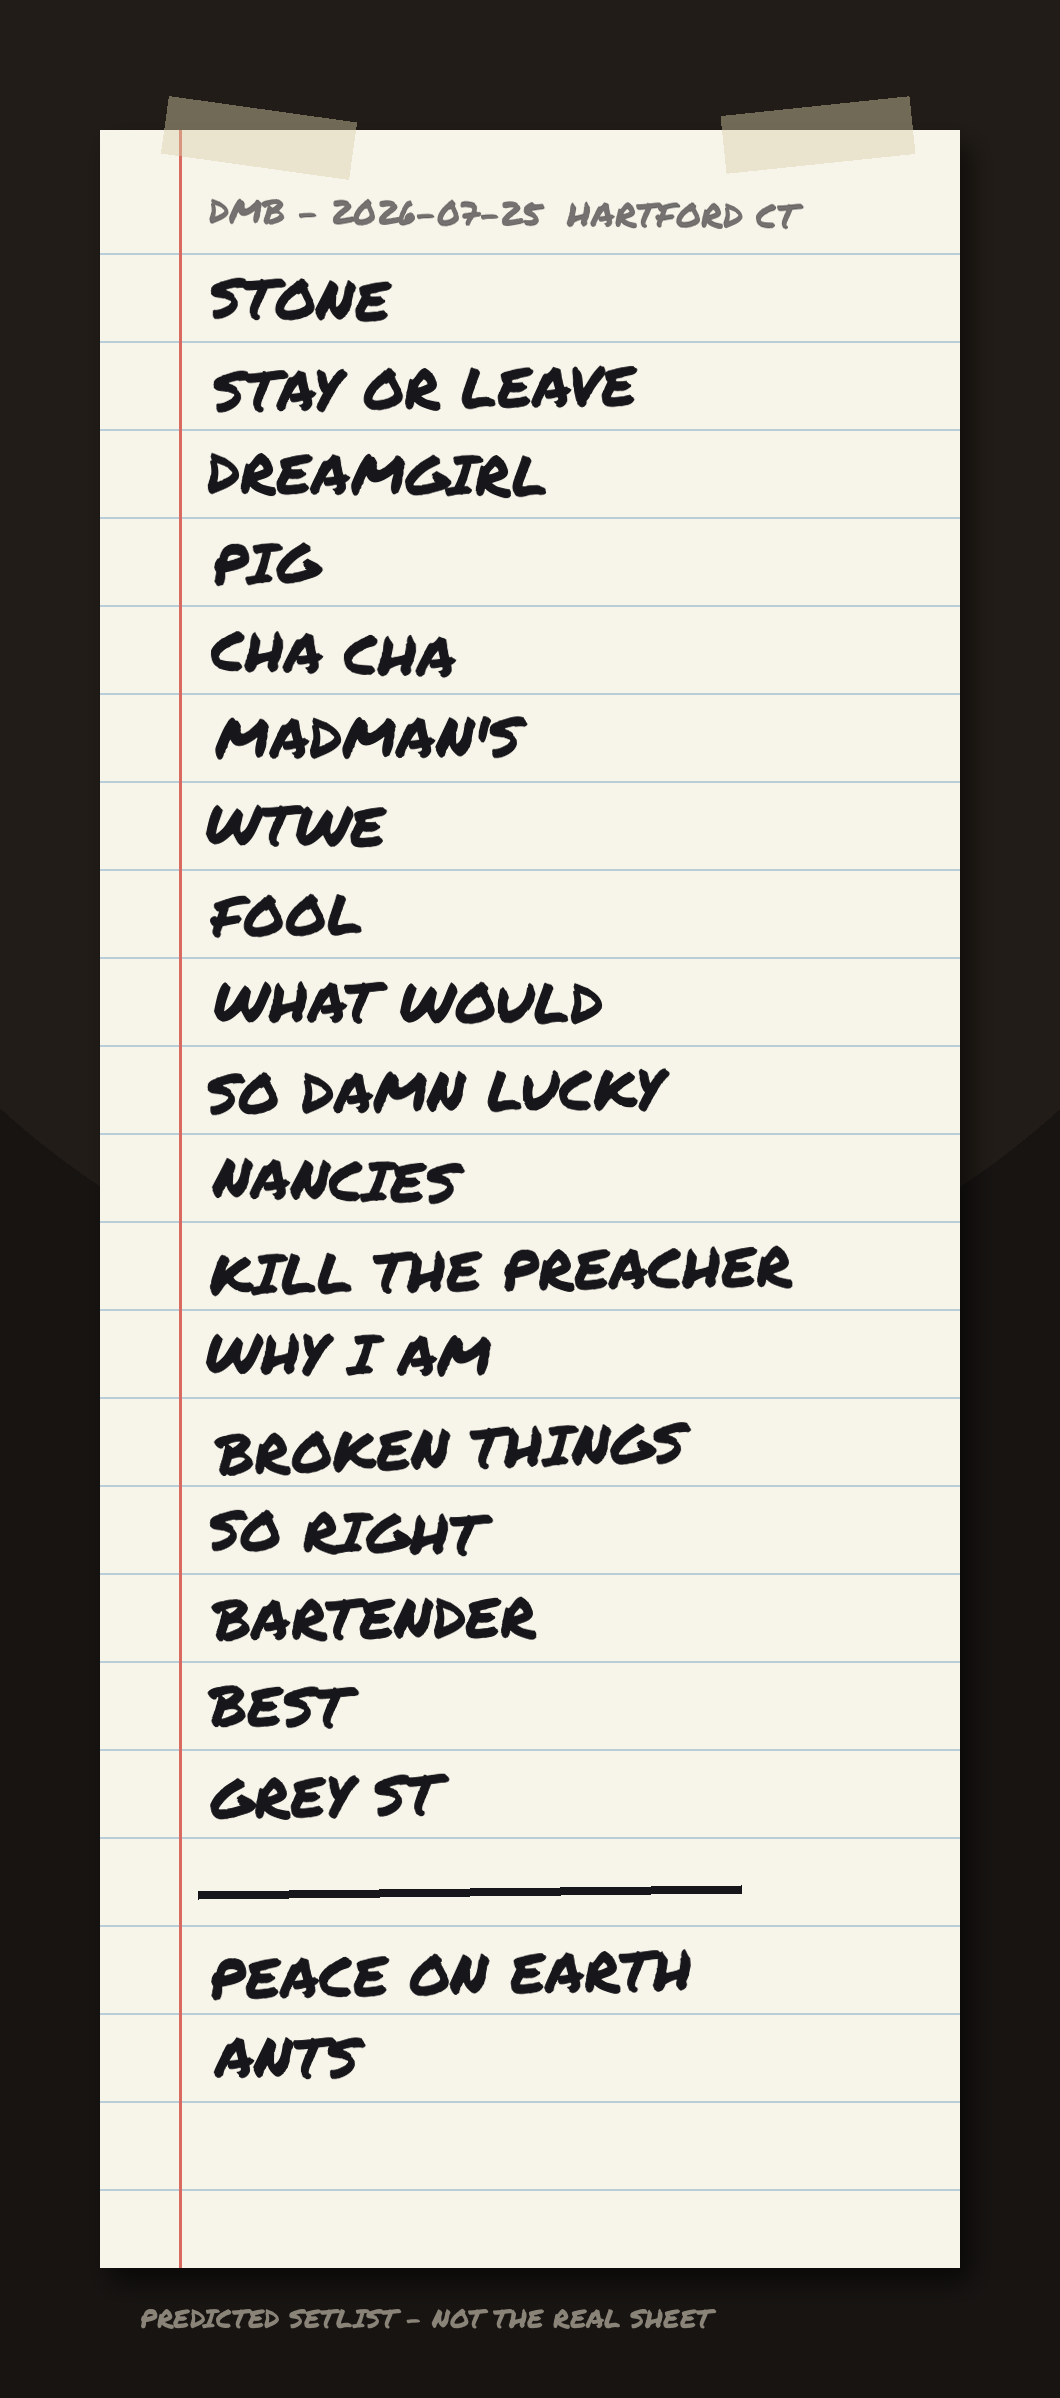
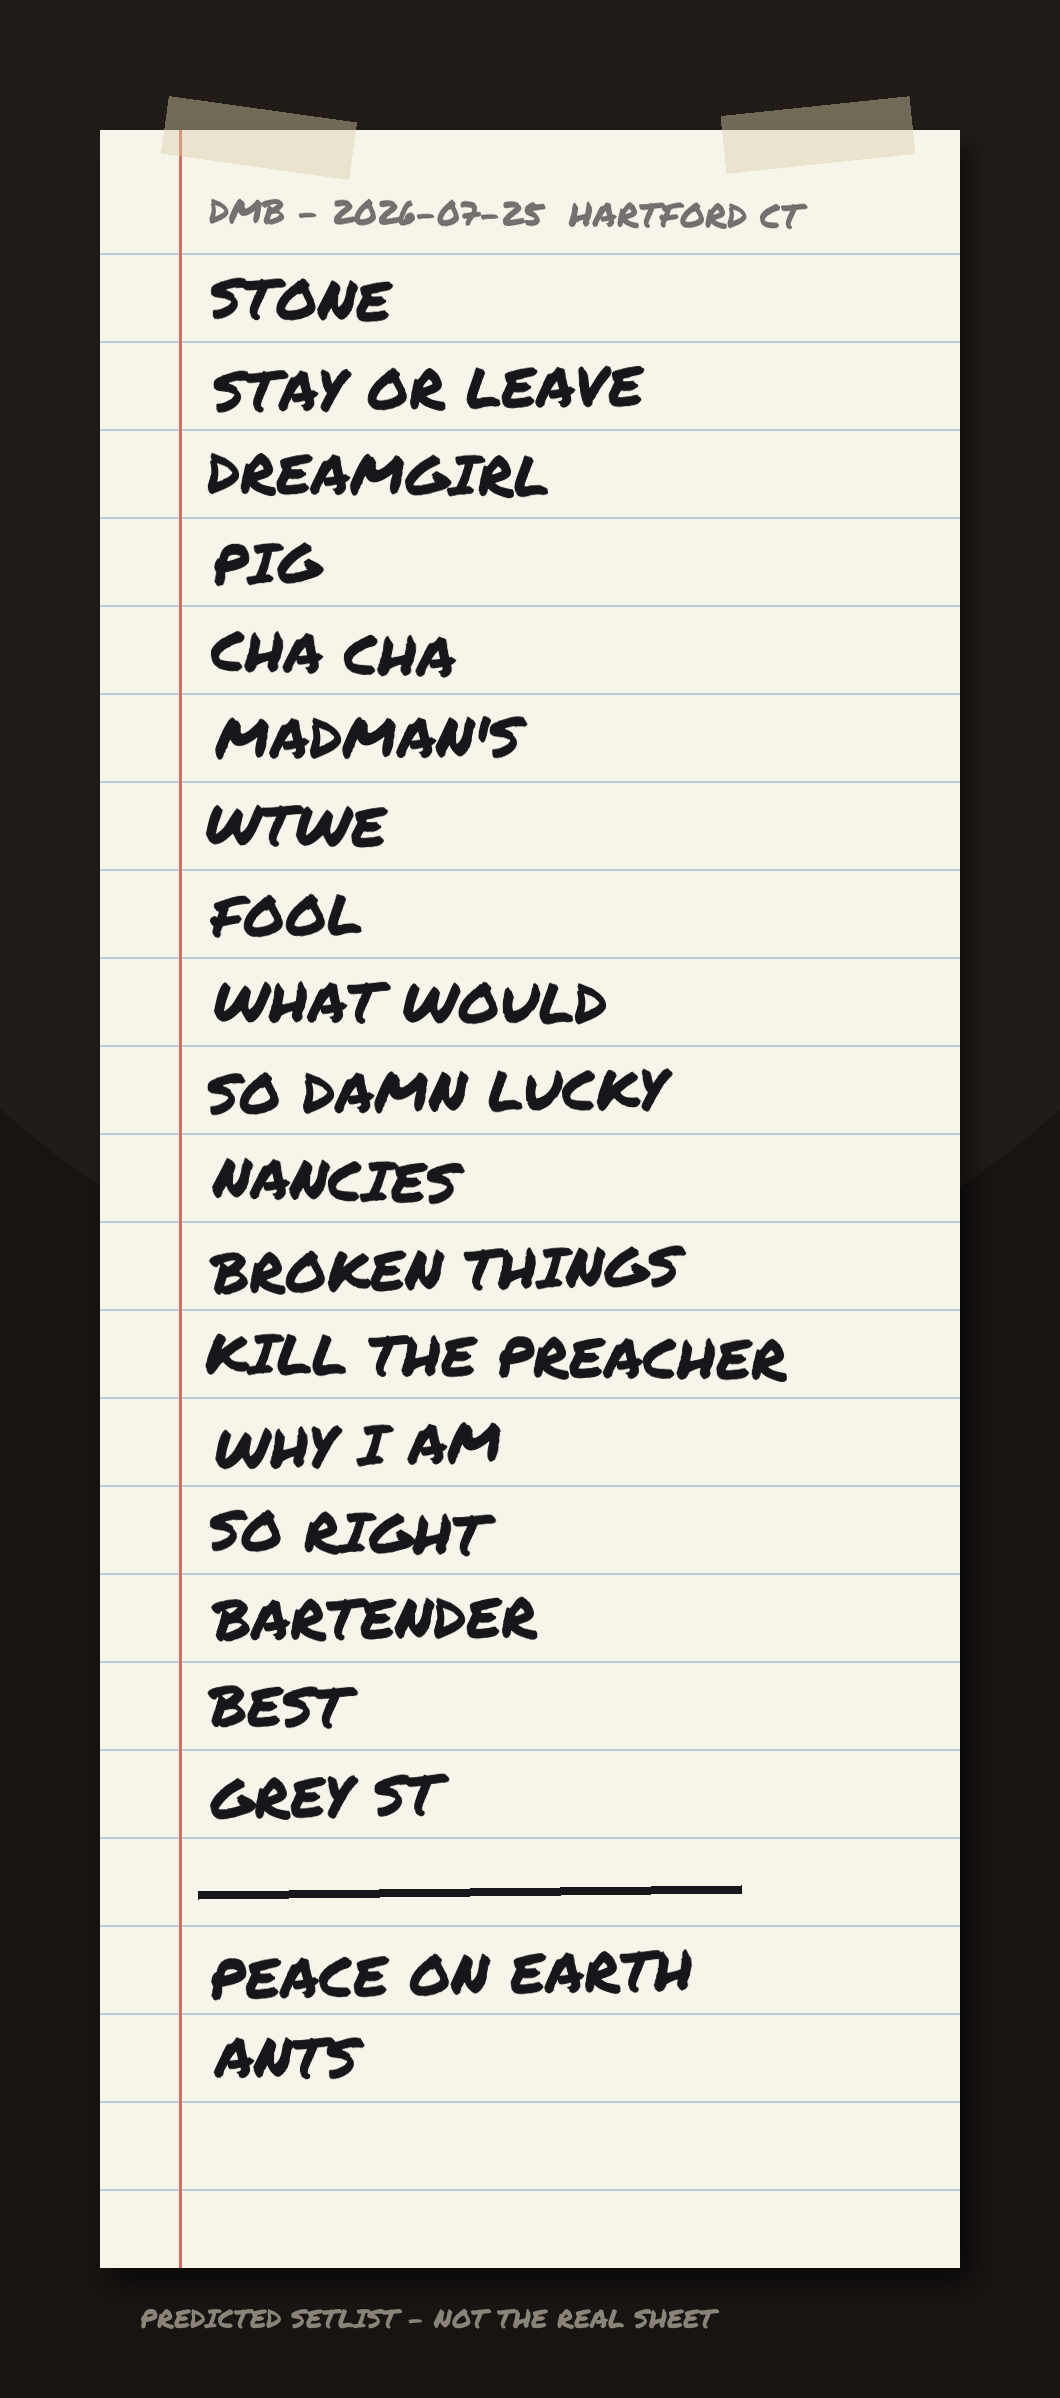
Predecessor (setup->payoff) segue rules with expected-hits swap test; backtest 38.5%
Claude-Session: https://claude.ai/code/session_01QXHqerg8r5DGW4T13e3jPs

diff --git a/site/index.html b/site/index.html
@@ -114,22 +114,22 @@ last show: 2026-07-24, The Pavilion at Star Lake, Burgettstown, PA</p>
   <span class="pct">41%</span>
 </li><li>
   <span class="num">12</span>
+  <span class="song">Broken Things </span>
+  <span class="meta">7 plays this tour &middot; last: 3 shows ago</span>
+  <span class="bar"><span style="width:27%"></span></span>
+  <span class="pct">27%</span>
+</li><li>
+  <span class="num">13</span>
   <span class="song">Kill the Preacher </span>
   <span class="meta">5 plays this tour &middot; last: 5 shows ago</span>
   <span class="bar"><span style="width:26%"></span></span>
   <span class="pct">26%</span>
 </li><li>
-  <span class="num">13</span>
+  <span class="num">14</span>
   <span class="song">Why I Am </span>
   <span class="meta">8 plays this tour &middot; last: 5 shows ago</span>
   <span class="bar"><span style="width:40%"></span></span>
   <span class="pct">40%</span>
-</li><li>
-  <span class="num">14</span>
-  <span class="song">Broken Things </span>
-  <span class="meta">7 plays this tour &middot; last: 3 shows ago</span>
-  <span class="bar"><span style="width:27%"></span></span>
-  <span class="pct">27%</span>
 </li><li>
   <span class="num">15</span>
   <span class="song">So Right </span>
@@ -172,7 +172,7 @@ last show: 2026-07-24, The Pavilion at Star Lake, Burgettstown, PA</p>
 </li></ol>
 
 <h2>On the Bubble</h2>
-<ul><li><span class="song">Mercy</span><span class="meta">7 plays this tour</span><span class="pct">20%</span></li><li><span class="song">Don&#x27;t Drink the Water</span><span class="meta">10 plays this tour</span><span class="pct">18%</span></li><li><span class="song">Pantala Naga Pampa</span><span class="meta">9 plays this tour</span><span class="pct">18%</span></li><li><span class="song">Tripping Billies</span><span class="meta">10 plays this tour</span><span class="pct">18%</span></li><li><span class="song">Satellite</span><span class="meta">11 plays this tour</span><span class="pct">18%</span></li><li><span class="song">You Might Die Trying</span><span class="meta">8 plays this tour</span><span class="pct">18%</span></li><li><span class="song">Jimi Thing</span><span class="meta">8 plays this tour</span><span class="pct">18%</span></li><li><span class="song">Everyday</span><span class="meta">8 plays this tour</span><span class="pct">18%</span></li><li><span class="song">American Baby</span><span class="meta">11 plays this tour</span><span class="pct">17%</span></li><li><span class="song">Drunken Soldier</span><span class="meta">5 plays this tour</span><span class="pct">16%</span></li></ul>
+<ul><li><span class="song">Mercy</span><span class="meta">7 plays this tour</span><span class="pct">20%</span></li><li><span class="song">Don&#x27;t Drink the Water</span><span class="meta">10 plays this tour</span><span class="pct">18%</span></li><li><span class="song">Satellite</span><span class="meta">11 plays this tour</span><span class="pct">18%</span></li><li><span class="song">Pantala Naga Pampa</span><span class="meta">9 plays this tour</span><span class="pct">18%</span></li><li><span class="song">Tripping Billies</span><span class="meta">10 plays this tour</span><span class="pct">18%</span></li><li><span class="song">Jimi Thing</span><span class="meta">8 plays this tour</span><span class="pct">18%</span></li><li><span class="song">Everyday</span><span class="meta">8 plays this tour</span><span class="pct">18%</span></li><li><span class="song">You Might Die Trying</span><span class="meta">8 plays this tour</span><span class="pct">18%</span></li><li><span class="song">American Baby</span><span class="meta">11 plays this tour</span><span class="pct">17%</span></li><li><span class="song">Drunken Soldier</span><span class="meta">5 plays this tour</span><span class="pct">16%</span></li></ul>
 
 <h2>How it works</h2>
 <div class="method">

diff --git a/predict.py b/predict.py
@@ -201,6 +201,31 @@ def encore_position(history):
     return stats
 
 
+def predecessor_rules(history, min_obs=5, concentration=0.5):
+    """Setup->payoff pairs: songs usually led into by a specific song.
+
+    Returns {B: (A, share)} where A immediately precedes B in >= `share`
+    (>= concentration) of B's non-opener main-set plays over recent shows
+    — e.g. Big Eyed Fish -> Bartender (3/3 in 2026, 11/16 since 2024).
+    """
+    recent = history[-90:]
+    prev_counts = defaultdict(lambda: defaultdict(int))
+    plays = defaultdict(int)
+    for s in recent:
+        seq = main_set(s)
+        for a, b in zip(seq, seq[1:]):
+            prev_counts[b][a] += 1
+            plays[b] += 1
+    rules = {}
+    for b, n in plays.items():
+        if n < min_obs:
+            continue
+        a, c = max(prev_counts[b].items(), key=lambda kv: kv[1])
+        if c / n >= concentration:
+            rules[b] = (a, c / n)
+    return rules
+
+
 def exclusion_lifts(legs, min_exp=3.5, max_lift=0.75):
     """Pairs that co-occur much less than independence predicts.
 
@@ -429,11 +454,34 @@ def predict(shows, target_date: str) -> dict:
             return max(pool, key=lambda s: prob[s])
         return max(scored, key=lambda s: prob[s] * slot_counts[s])
 
+    # Predecessor (setup->payoff) rules: if a picked song is usually led
+    # into by a specific song, pull the setup in — but only when its
+    # implied probability (prob[payoff] x lead-in share) beats the weakest
+    # unprotected pick it would replace. Statistically-likely by
+    # construction: expected hits never decrease.
+    pred_rules = predecessor_rules(history)
+    for b, (a, share) in pred_rules.items():
+        if b in members and a not in members and a not in enc_songs:
+            implied = prob.get(b, 0.0) * share
+            weakest = min((m for m in members
+                           if m != b and m not in pred_rules),
+                          key=lambda m: prob.get(m, 0.0), default=None)
+            if weakest and implied > prob.get(weakest, 0.0):
+                members[members.index(weakest)] = a
+                prob.setdefault(a, implied)
+                chosen.discard(weakest)
+                chosen.add(a)
+
     opener = [best_for(openers, members)]
     rest = [s for s in members if s not in opener]
     closer = [best_for(closers, rest)]
     middle = [s for s in rest if s not in closer]
     middle.sort(key=lambda s: pos.get(s, 0.5))
+    # place each setup song directly before its payoff
+    for b, (a, _share) in pred_rules.items():
+        if a in middle and b in middle:
+            middle.remove(a)
+            middle.insert(middle.index(b), a)
 
     main_order = apply_segues(opener + middle + closer, rules, prob,
                               protected={*opener, *closer})
